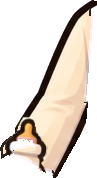
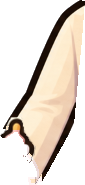
fix(animations): lead-feast's raised key at the sheets' scale 1.06 with the held hand at r 29, key and L3 ink at the sheet's 31,17,9 (cutout r10 R1, R10)

diff --git a/apps/animations/src/library/cast/lead-feast/cutout/puppets.ts b/apps/animations/src/library/cast/lead-feast/cutout/puppets.ts
@@ -55,7 +55,7 @@ const puppet = (view: FramedView, parts: ReadonlyArray<readonly [string, string]
  * across it, its soft edge and the boil's resample taken, is that, in the
  * sheet's ink.
  */
-export const LINE = { width: 8.5, ink: [43, 38, 34] } as const;
+export const LINE = { width: 8.5, ink: [31, 17, 9] } as const;
 
 /** Each cut view's paper, the median of its kept view's border ground (its rim is un-matted from it, `core/unmatte.ts`). */
 export const PAPERS = {

diff --git a/apps/animations/src/library/cast/lead-feast/cutout/raise.ts b/apps/animations/src/library/cast/lead-feast/cutout/raise.ts
@@ -51,8 +51,8 @@ const EXPOSED = [
   { id: 'raised', png: raised, from: 36 },
 ] as const;
 
-/** How far round the held hand the line is left as the drawings draw it, sheet px: its radius and 13 (world-proto r5c's 42). */
-const QUIET = 42;
+/** How far round the held hand the line is left as the drawings draw it, sheet px: 0, since each key keeps its own lower line up to the cuff and the L3 line closes on the held ring. */
+const QUIET = 0;
 
 const COUNT = 48;
 
